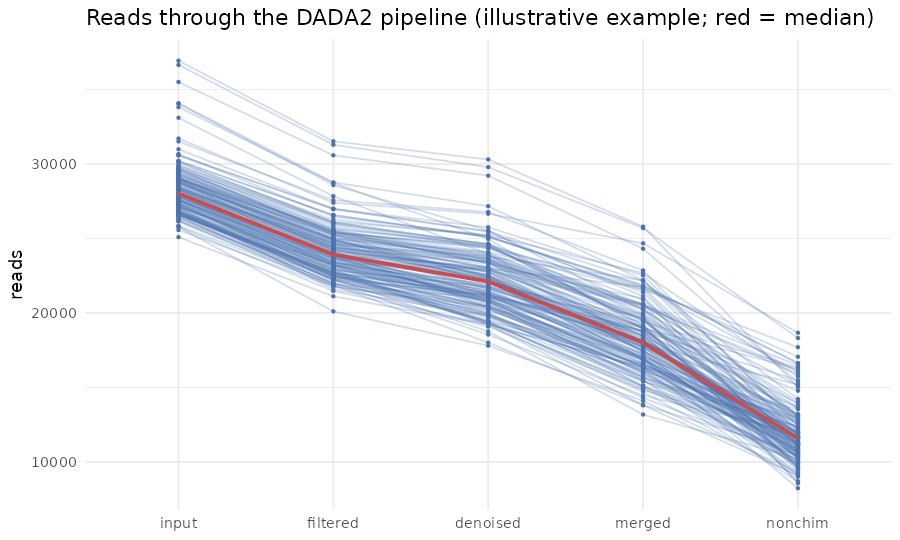
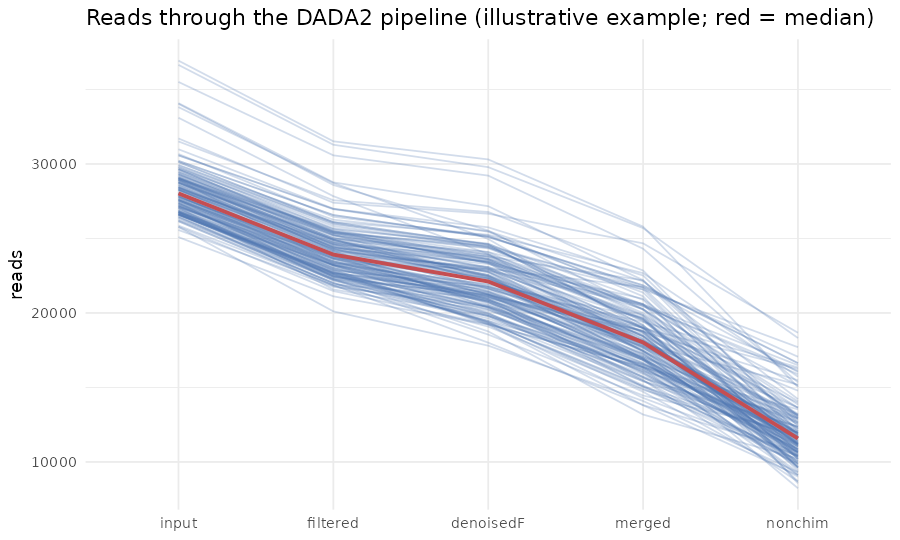
SOP: apply critical-review findings on figure integration and accuracy
From a harsh tutorial review held to TUTORIAL_SPEC + the EMU/CONCOMPRA bar:

- F1 (S2): the read-tracking prose called the figure a "gentle, no-cliff" slope,
  but the exemplar's real medians (from track.tsv) are 85/92/81/65% -- the chimera
  step is a 35% CLIFF, and 65% fell below the doc's own "80-95% healthy" band.
  §6 now describes the actual shape (chimera = the largest drop, normal for
  merged V3-V4); table band -> 65-90%; §5e -> "20-35% of reads".
- F2 (S2): §6 showed two plots the reader had NO code to make. Added 06_qc_plots.R
  so the reader generates their own read-tracking + rarefaction plots from the
  Section 5 outputs -- the same code that makes the example figures.
- F3 (S2): rarefaction was coloured by Ethnicity (a between-group variable §6
  never uses). Regenerated single-colour -- a within-sample depth-QC figure.
- F4 (S3): 05_dada2.R now renames filterAndTrim's reads.in/reads.out ->
  input/filtered so the reader's track.tsv header matches the docs.
- F5 (S3): §4 now explains the red line (fraction of reads reaching each cycle =
  read length, not a quality drop) -- it was unexplained and misreadable.
- F6/F7: read-tracking figure labels denoisedF (matches docs); Q30 claim
  tightened to ~cycle 260-270; <one_sample> -> <sample>.

Figs 2 & 3 regenerated to match what 06_qc_plots.R produces. Scans clean.

diff --git a/SOP_DADA2_NeSI.md b/SOP_DADA2_NeSI.md
@@ -68,7 +68,7 @@ This only works if the reads are long enough to reach each other. After the prim
 **2×300 bp** sequencing overlaps comfortably; **2×250 bp** is tight; **2×150 bp cannot span a V3–V4 amplicon at all**. This one fact drives most of Section 4 and Section 5, so check your read length first:
 
 ```bash
-zcat raw/<one_sample>_R1_001.fastq.gz | head -2 | tail -1 | wc -c   # ~read length + 1
+zcat raw/<sample>_R1_001.fastq.gz | head -2 | tail -1 | wc -c   # ~read length + 1
 ```
 
 ### **What an ASV is, and ASV vs OTU**
@@ -322,13 +322,15 @@ Submit with `sbatch 04_quality_profile.sh`, then open `asv/$RUN/qualityF.pdf` an
 
 ### **Read the profile and choose truncLen**
 
-`plotQualityProfile` draws quality score (y) against read position (x), aggregated over your samples; the **green line is the median**, the dashed orange lines the quartiles. You read one number off each plot — the cycle where the median starts dropping below about **Q30** — and cut just before the quality falls apart.
+`plotQualityProfile` draws quality score (y) against read position (x), aggregated over your samples. The **green line is the median**, the dashed orange lines the quartiles, and the **red line (right axis, 0–100%) is the fraction of reads reaching each cycle** — it holds near 100%, then falls where the reads themselves end, which marks read length, not a quality drop.
+
+You read one number off each plot — the cycle where the *median* dips below about **Q30** — and cut just before the quality falls apart.
 
 The worked example's forward and reverse profiles show the call (illustrative — your own curves will differ; see [`examples/dada2/README.md`](examples/dada2/README.md)):
 
 ![Forward and reverse aggregate quality profiles of primer-trimmed V3–V4 reads](examples/dada2/figures/01_quality_profile.png)
 
-Read the two panels together. The **forward reads (R1, left)** hold a median above Q30 to about cycle 280, so `truncF = 280` keeps almost the whole read. The **reverse reads (R2, right)** degrade sooner and faster — the median is sliding by cycle 200 and drops toward Q25 past 250 — so `truncR = 220` stops before that decline.
+Read the two panels together. The **forward reads (R1, left)** hold a median above Q30 to roughly cycle 260–270, so `truncF = 280` keeps almost the whole read, trading a slightly degraded tail that `maxEE` filters out. The **reverse reads (R2, right)** degrade sooner and faster — the median is sliding by cycle 200 and drops toward Q25 past 250 — so `truncR = 220` stops before that decline.
 
 That the reverse read falls off first is normal for Illumina paired-end sequencing, and it is the whole reason `truncR` is the shorter cut. The two still sum to 500 — comfortably above the ~460 bp floor — so the trimmed reads keep enough overlap to merge.
 
@@ -456,6 +458,7 @@ writeLines(mode, file.path(out, paste0(run, "_mode.txt")))
 writeLines(paste0(">", asv_ids, "\n", seqs), file.path(out, paste0(run, "_asv.fasta")))   # keep: IDs map to sequences here
 gN <- function(x) sum(getUniques(x))
 mergedN <- if (mode == "merged") sapply(mg, gN) else NA
+colnames(flt) <- c("input", "filtered")   # filterAndTrim names these reads.in/reads.out
 track <- cbind(flt[keep, , drop = FALSE], denoisedF = sapply(ddF, gN), merged = mergedN, nonchim = rowSums(stnc))
 rownames(track) <- sn
 write.table(track, file.path(out, paste0(run, "_track.tsv")), sep = "\t", quote = FALSE, col.names = NA)
@@ -525,7 +528,7 @@ We leave `--array` out of the header on purpose. A hard-coded `#SBATCH --array 1
 
 > **Why the *fraction*, not "any merged reads"?** A handful of spuriously-merged non-overlapping reads would otherwise keep an almost-empty merged table in preference to the far larger R1-only set. Forward-reads-only loses the resolution the reverse read adds but keeps the data usable — the run's `_mode.txt` records which path ran, so **note it in your methods**.
 
-- **5e — `removeBimeraDenovo`.** Removes chimeras (Section 1) by consensus across samples. Expect a few to ~20% of *reads* removed, and often many more low-abundance *sequences*; losing most of your reads here points to leftover primer.
+- **5e — `removeBimeraDenovo`.** Removes chimeras (Section 1) by consensus across samples. Expect roughly **20–35% of *reads*** removed here — often about a third of merged V3–V4 reads, since full-length merged amplicons are the most chimera-prone — plus many more low-abundance *sequences*; losing most of your reads points to leftover primer.
 
 - **5f — `assignTaxonomy` + `addSpecies`.** `assignTaxonomy` classifies each ASV down to genus against SILVA 138.1 (a naive-Bayes classifier; `tryRC=TRUE` so it matches whichever strand the ASV is on). `addSpecies` adds a species name only where an ASV matches a reference sequence exactly.
 
@@ -555,18 +558,61 @@ RUN=tofi_v3v4
 column -t asv/$RUN/${RUN}_track.tsv | head -20
 ```
 
-Each row is one sample's read count at each stage. Plotted, those rows should look like the worked example below — every line sloping *gently* down, most reads kept at each step, no single cliff (the red line is the median across its 157 samples):
+Each row is one sample's read count at each stage. Plotted, those rows look like the worked example below — one line per sample, the red line the median across its 157 samples. Reads are lost at *every* step; the shape to learn is *where*:
 
 ![Reads surviving each DADA2 step, one line per sample (illustrative example)](examples/dada2/figures/02_read_tracking.png)
 
-Read your own numbers against this shape. **A steep drop at one transition is the diagnosis:** the column where the reads fall away names the step that went wrong, and the table below turns each drop into a cause.
+Here the gentlest losses are filtering and denoising, and the **largest single drop is the last one — chimera removal** (median ~18,000 → ~11,600 reads, about a third gone). That is expected for merged V3–V4: full-length merged amplicons are the most chimera-prone, so a 20–35% loss there is normal, not a fault.
+
+Read your own numbers against this shape. **A drop far steeper than the example at any one transition is the diagnosis** — the column where the reads fall away names the step that went wrong, and the table below turns each drop into a cause.
 
 | Transition | Healthy | Alarming → likely cause |
 | --- | --- | --- |
 | input → filtered | keep ~70–90% | <50% → `truncLen` too high, or a poor-quality run |
 | filtered → denoisedF | keep ~90%+ | large drop → very few reads, or very low complexity |
 | denoisedF → merged | keep ~70–90% | <20% → reads did not overlap; the script fell back to R1-only (`merged` column is `NA`) |
-| merged → nonchim | keep ~80–95% | <50% → leftover primer inflating chimeras; redo Section 3 |
+| merged → nonchim | keep ~65–90% | <50% → leftover primer inflating chimeras; redo Section 3 |
+
+**Make both plots for your own run.** The example figures here are the shape to compare against; generate your own from the Section 5 outputs — light, no batch job. Save as `06_qc_plots.R`:
+
+```r
+#!/usr/bin/env Rscript
+# Section 6 QC plots from the Section 5 outputs: read-tracking + rarefaction.
+# Light -- a minute or two, no batch job.  Usage: 06_qc_plots.R <asv_dir> <run>
+suppressMessages({ library(ggplot2); library(tidyr); library(vegan) })
+a <- commandArgs(trailingOnly = TRUE); d <- a[1]; run <- a[2]
+
+# read-tracking: one line per sample, red median
+trk <- read.delim(file.path(d, paste0(run, "_track.tsv")), row.names = 1, check.names = FALSE)
+trk$sample <- rownames(trk); steps <- setdiff(colnames(trk), "sample")
+long <- pivot_longer(trk, all_of(steps), names_to = "step", values_to = "reads")
+long$step <- factor(long$step, levels = steps)
+ggsave(file.path(d, paste0(run, "_read_tracking.png")),
+  ggplot(long, aes(step, reads, group = sample)) +
+    geom_line(alpha = 0.25, colour = "#4C72B0") +
+    stat_summary(aes(group = 1), fun = median, geom = "line", colour = "#C44E52", linewidth = 1.1) +
+    labs(x = NULL, y = "reads", title = "Reads through the DADA2 pipeline (red = median)") +
+    theme_minimal(base_size = 11), width = 7.5, height = 4.5, dpi = 120)
+
+# rarefaction: ASV richness vs depth, one curve per sample
+stnc <- readRDS(file.path(d, paste0(run, "_seqtab_nochim.rds")))   # written by Section 5
+png(file.path(d, paste0(run, "_rarefaction.png")), width = 950, height = 680, res = 120)
+rarecurve(stnc, step = 500, label = FALSE, col = "#4C72B0",
+          xlab = "reads sampled", ylab = "ASVs observed", main = "Rarefaction: ASV richness vs depth")
+dev.off()
+cat("wrote read-tracking and rarefaction PNGs to", d, "\n")
+```
+
+```bash
+RUN=tofi_v3v4
+module purge
+module load R-bundle-Bioconductor/3.23-foss-2026-R-4.6.0
+Rscript 06_qc_plots.R asv/$RUN "$RUN"
+```
+
+**How long.** A minute or two.
+
+> **Expect** `<run>_read_tracking.png` and `<run>_rarefaction.png` in `asv/$RUN/`, matching the shapes above. A rarefaction error usually means `<run>_seqtab_nochim.rds` is missing — confirm Section 5 finished.
 
 Then ask whether each sample was sequenced deep enough. A **rarefaction curve** turns a sample's ASV table into a line — ASVs observed as you subsample its reads — and its shape answers the question directly:
 

diff --git a/examples/dada2/README.md b/examples/dada2/README.md
@@ -88,7 +88,7 @@ Modules: `R-bundle-Bioconductor/3.23-foss-2026-R-4.6.0` (dada2, ggplot2, vegan),
 | --- | --- |
 | `figures/01_quality_profile.png` | Aggregate quality of the primer-trimmed forward and reverse reads; where quality falls off sets `truncLen` (Section 4). |
 | `figures/02_read_tracking.png` | Reads surviving each step (input → filtered → denoised → merged → nonchim), one line per sample, median in red — the Section 6 QC checkpoint. |
-| `figures/03_asv_rarefaction.png` | ASV richness against sequencing depth, coloured by Ethnicity; whether curves plateau shows if depth is sufficient. |
+| `figures/03_asv_rarefaction.png` | ASV richness against sequencing depth, one curve per sample; whether curves plateau shows if depth is sufficient (a within-sample QC check, so a single colour). |
 
 ## Hand-off to the R analysis
 
